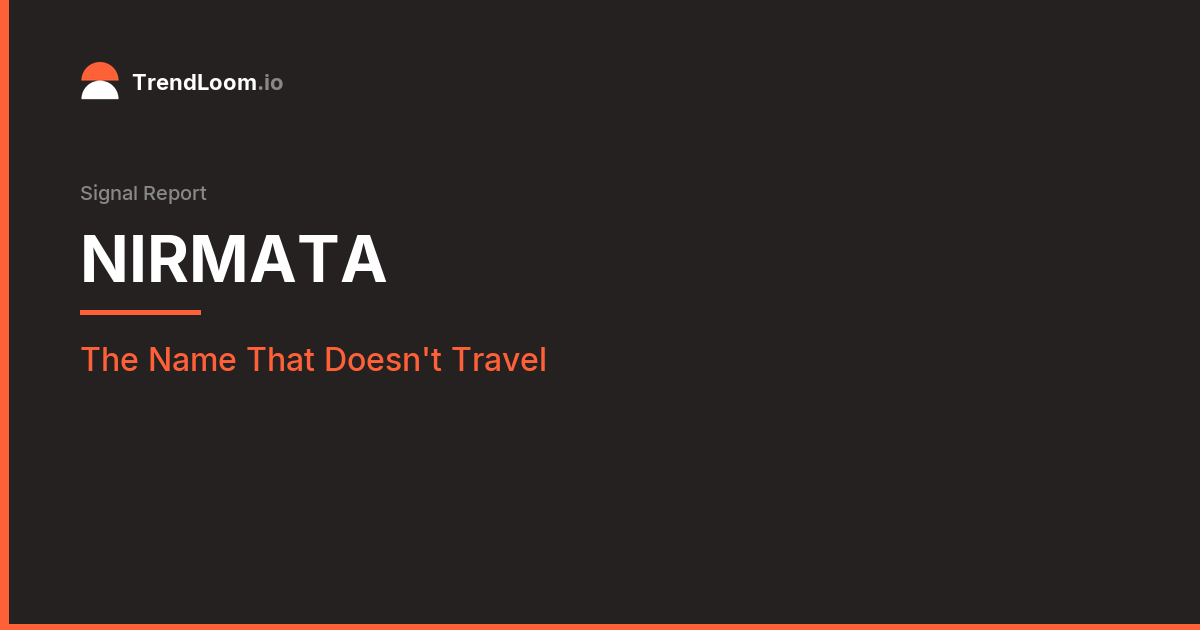
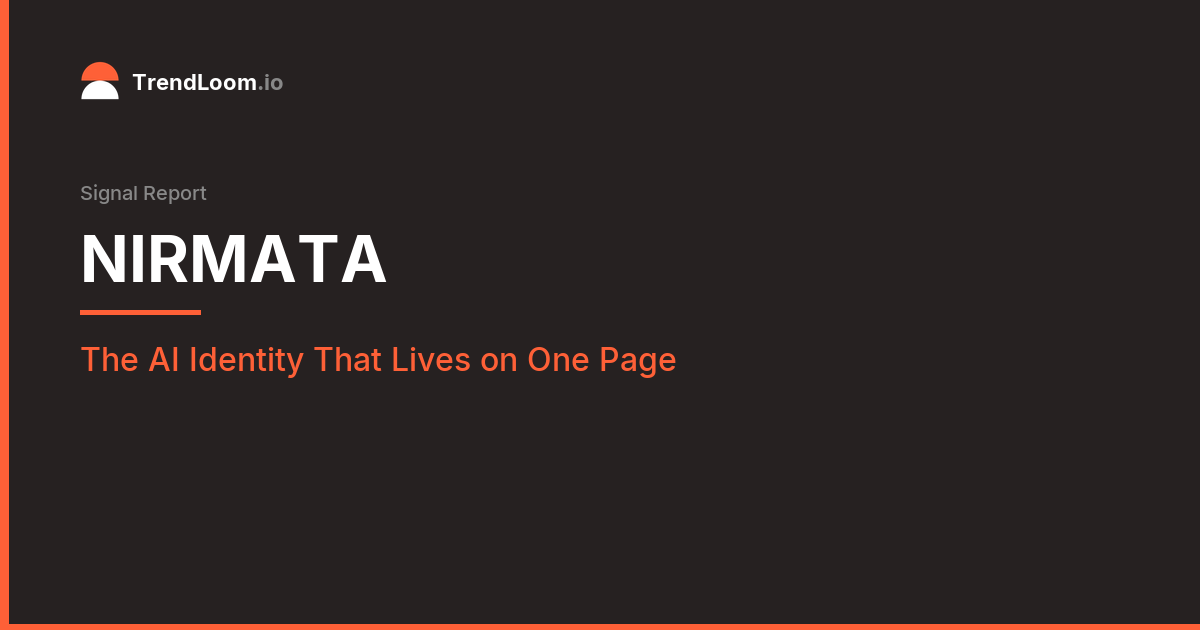
Deploy 6 files: nirmata_report.png, otter-ai_report.png, notion_report.png, nirmata_report.html, otter-ai_report.html, notion_report.html

Changed region(s): [[0.1233, 0.5429, 0.555, 0.6032]]

diff --git a/nirmata_report.html b/nirmata_report.html
@@ -5,7 +5,7 @@
     <meta name="viewport" content="width=device-width, initial-scale=1.0">
     <title>Signal Report — Nirmata | TrendLoom.io</title>
     <meta property="og:title" content="Signal Report — Nirmata | TrendLoom.io">
-    <meta property="og:description" content="The Name That Doesn't Travel — an independent signal report by TrendLoom">
+    <meta property="og:description" content="The AI Identity That Lives on One Page — an independent signal report by TrendLoom">
     <meta property="og:image" content="https://marketinsights-hub.github.io/signal-reports/nirmata_report.png">
     <meta property="og:url" content="https://marketinsights-hub.github.io/signal-reports/nirmata_report.html">
     <meta property="og:type" content="article">

diff --git a/notion_report.html b/notion_report.html
@@ -5,7 +5,7 @@
     <meta name="viewport" content="width=device-width, initial-scale=1.0">
     <title>Signal Report: Notion — TrendLoom.io</title>
     <meta property="og:title" content="Signal Report — Notion | TrendLoom.io">
-    <meta property="og:description" content="The Documentation Paradox — an independent signal report by TrendLoom">
+    <meta property="og:description" content="Notion Runs 25% Faster With AI Off — an independent signal report by TrendLoom">
     <meta property="og:image" content="https://marketinsights-hub.github.io/signal-reports/notion_report.png">
     <meta property="og:url" content="https://marketinsights-hub.github.io/signal-reports/notion_report.html">
     <meta property="og:type" content="article">

diff --git a/otter-ai_report.html b/otter-ai_report.html
@@ -5,7 +5,7 @@
     <meta name="viewport" content="width=device-width, initial-scale=1.0">
     <title>Signal Report — Otter.ai | TrendLoom.io</title>
     <meta property="og:title" content="Signal Report — Otter.ai | TrendLoom.io">
-    <meta property="og:description" content="The Quiet Reversal — an independent signal report by TrendLoom">
+    <meta property="og:description" content="One Website. 17 Product Names. — an independent signal report by TrendLoom">
     <meta property="og:image" content="https://marketinsights-hub.github.io/signal-reports/otter-ai_report.png">
     <meta property="og:url" content="https://marketinsights-hub.github.io/signal-reports/otter-ai_report.html">
     <meta property="og:type" content="article">
